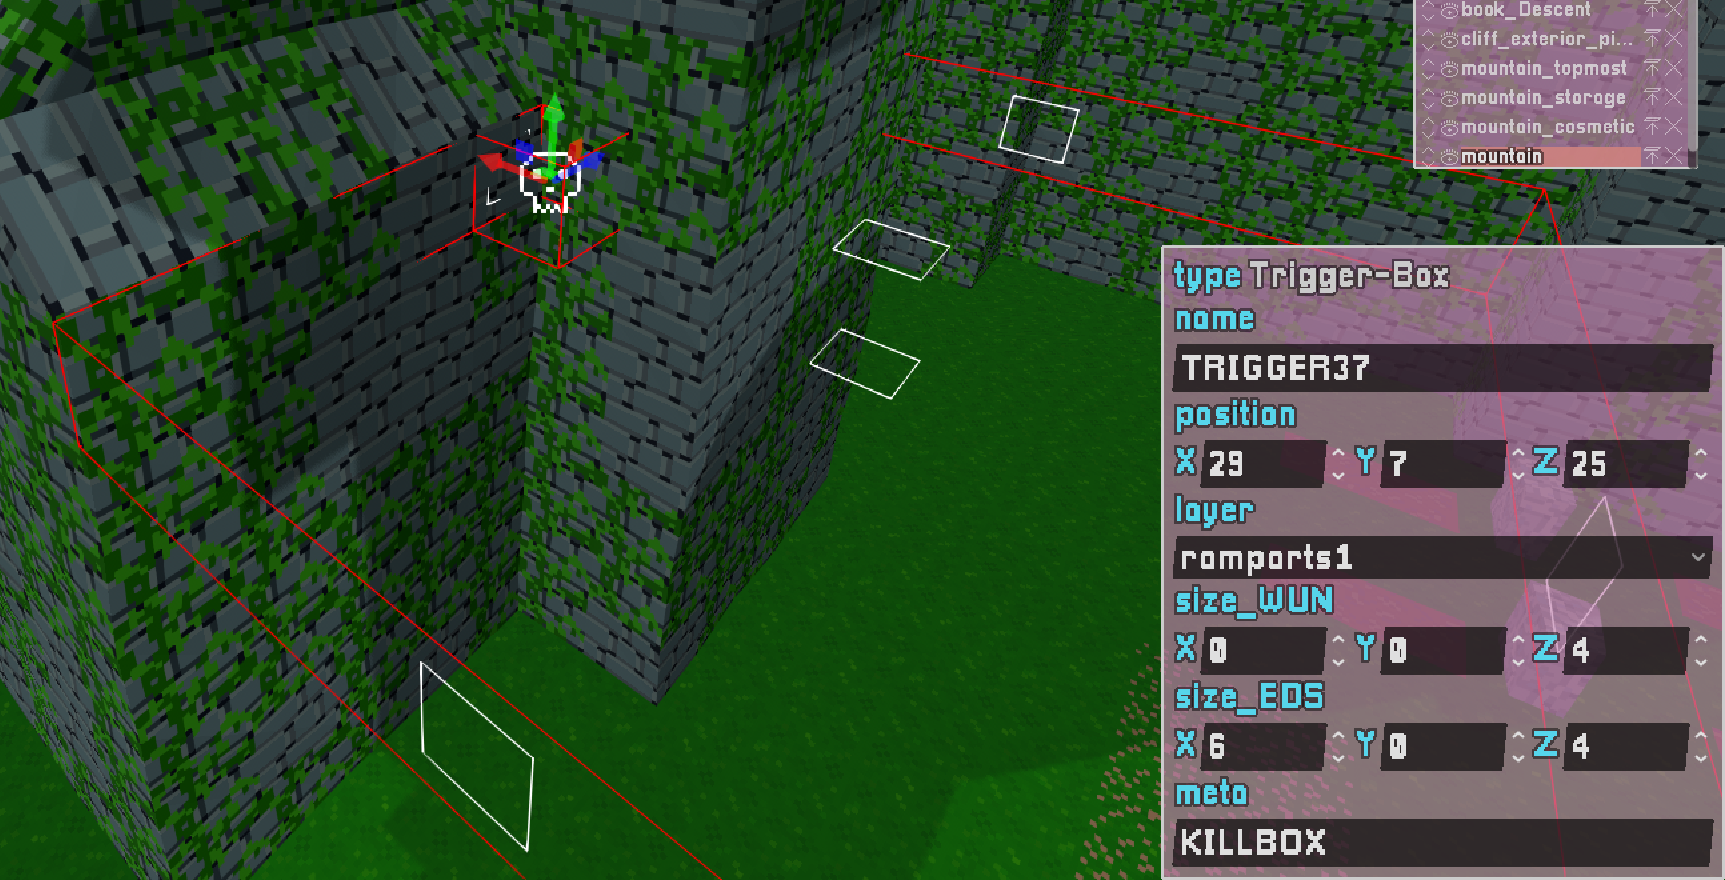
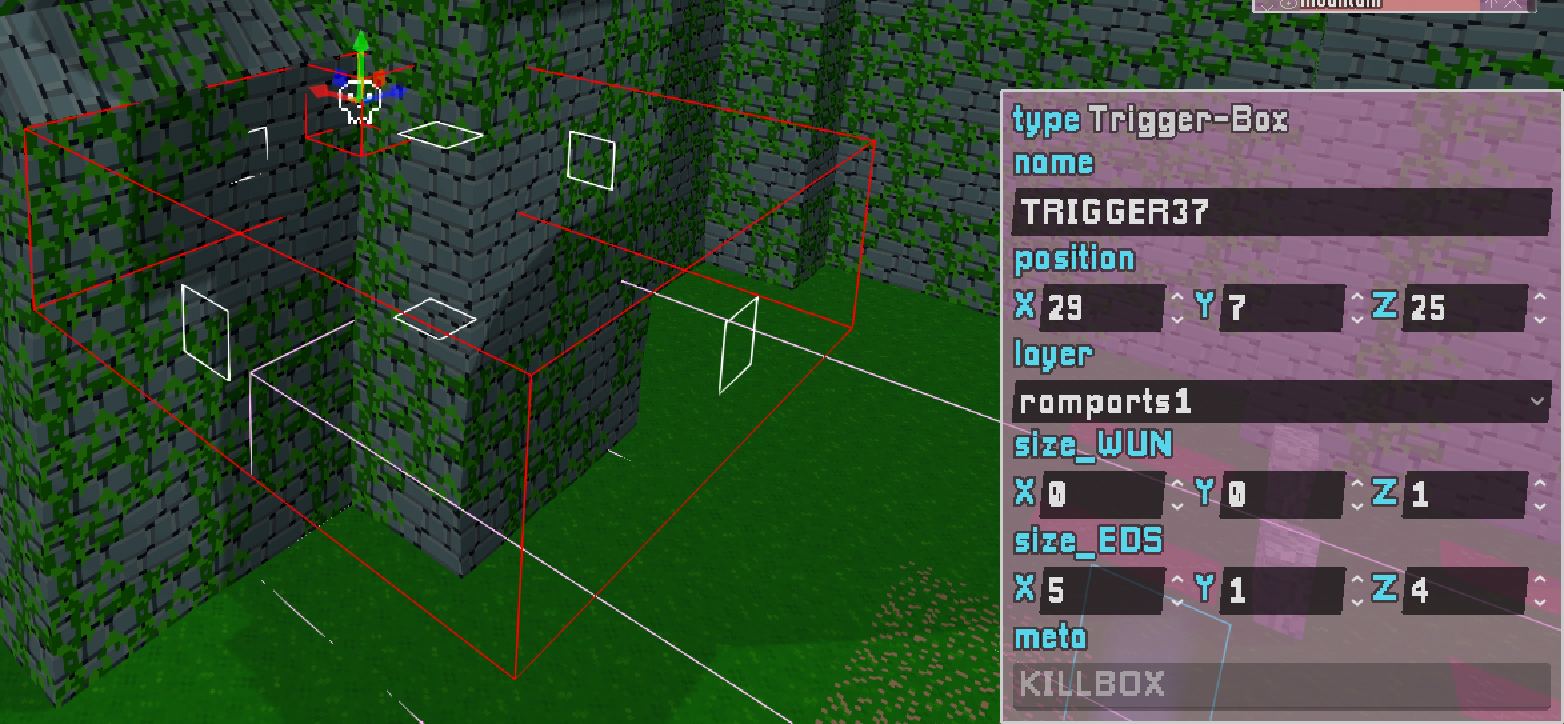
level->map

diff --git a/map-editor-tutorial.html b/map-editor-tutorial.html
@@ -383,7 +383,7 @@
 <p><img class="img-fluid rounded shadow-sm d-block my-3" height="300" alt="image" src="./map-editor-images/settings_menu.png" /></p>
 <ol start="2">
 <li>Enable <strong>Map-Editor</strong>.</li>
-<li>Load into a level (custom levels are easiest to work with - the main game level has hard-coded stuff).</li>
+<li>Load into a map (custom maps are easiest to work with - the main game map has hard-coded stuff).</li>
 <li>Press <strong>Tab</strong> to open the map editor.</li>
 </ol>
 <p><img class="img-fluid rounded shadow-sm d-block my-3" height="300" alt="image" src="./map-editor-images/map_editor_opened.png" /></p>
@@ -416,7 +416,7 @@
 </ul>
 <p><img class="img-fluid rounded shadow-sm d-block my-3" height="300" alt="image" src="./map-editor-images/file_dropdown.png" /></p>
 <ul>
-<li>The button to open the levels folder (shortcut : <strong>Ctrl+L</strong>).</li>
+<li>The button to open the maps folder (shortcut : <strong>Ctrl+L</strong>).</li>
 </ul>
 <hr class="my-5 opacity-0">
 <h2 class="mt-5 mb-3 pb-2 border-bottom" id="section-3-camera-and-movement-in-the-map-editor">3. Camera and Movement (in the Map Editor)</h2>
@@ -556,10 +556,10 @@
 </ul>
 <h4 class="mt-3 mb-2 opacity-75" id="section-511-img-srcmap-editor-imagesobject_1_bonfire_startpng--start-checkpoint">5.1.1 <img class="img-fluid rounded shadow-sm d-block my-3" src="./map-editor-images/object_1_Bonfire_Start.png" /> Start Checkpoint</h4>
 <ul>
-<li>Every level <em>must</em> include a <strong>Start Checkpoint</strong>.</li>
-<li>This is where the player spawns in custom levels; it looks just like a normal checkpoint.</li>
-<li>The <code>area_name</code> tag controls the text shown when the player spawns into the level.  The default value is <code>"CUSTOM_LEVEL_LETS_GO"</code>, a localisation tag that amounts to "Let's go!" in English, but you can change it to whatever message you like.</li>
-<li>(The <code>Nest.tscn</code> asset can also function as a start checkpoint, but its behaviour is heavily hard-coded - I don't recommend using it in your own levels unless you're modding the main game, and even then, test carefully and avoid modifying the geometry around the starting area.)</li>
+<li>Every map <em>must</em> include a <strong>Start Checkpoint</strong>.</li>
+<li>This is where the player spawns in custom maps; it looks just like a normal checkpoint.</li>
+<li>The <code>area_name</code> tag controls the text shown when the player starts a new game on your map.  The default value is <code>"CUSTOM_LEVEL_LETS_GO"</code>, a localisation tag that amounts to "Let's go!" in English, but you can change it to whatever message you like.</li>
+<li>(The <code>Nest.tscn</code> asset can also function as a start checkpoint, but its behaviour is heavily hard-coded - I don't recommend using it in your own maps unless you're modding the main game, and even then, test carefully and avoid modifying the geometry around the starting area.)</li>
 </ul>
 <p><img class="img-fluid rounded shadow-sm d-block my-3" height="300" alt="image" src="./map-editor-images/start_checkpoint.png" /></p>
 <h4 class="mt-3 mb-2 opacity-75" id="section-512-img-srcmap-editor-imagesobject_2_bonfirepng--normal-checkpoint">5.1.2 <img class="img-fluid rounded shadow-sm d-block my-3" src="./map-editor-images/object_2_Bonfire.png" /> Normal Checkpoint</h4>
@@ -570,7 +570,7 @@
 </ul>
 <h4 class="mt-3 mb-2 opacity-75" id="section-513-img-srcmap-editor-imagesobject_3_bonfire_endpng--end-checkpoint">5.1.3 <img class="img-fluid rounded shadow-sm d-block my-3" src="./map-editor-images/object_3_Bonfire_End.png" /> End Checkpoint</h4>
 <ul>
-<li>Custom levels don't have a dedicated final checkpoint (unless using the nest).  This behaves like a normal checkpoint.</li>
+<li>Custom maps don't have a dedicated final checkpoint (unless using the nest).  This behaves like a normal checkpoint.</li>
 <li>The default <code>area_name</code> tag value is <code>"CUSTOM_LEVEL_YOU_MADE_IT"</code>, which localises to "You made it!" in English - but you can put whatever you like in there.</li>
 </ul>
 <h4 class="mt-3 mb-2 opacity-75" id="section-514-img-srcmap-editor-imagesobject_4_torchpng--torch">5.1.4 <img class="img-fluid rounded shadow-sm d-block my-3" src="./map-editor-images/object_4_Torch.png" /> Torch</h4>
@@ -580,7 +580,7 @@
 <p><img class="img-fluid rounded shadow-sm d-block my-3" height="300" alt="image" src="./map-editor-images/star_shot.png" /></p>
 <p><img class="img-fluid rounded shadow-sm d-block my-3" height="300" alt="image" src="./map-editor-images/star_collect.png" /></p>
 <ul>
-<li>Makes a satisfying sound when collected, and displays a running count of stars collected vs. the level total.</li>
+<li>Makes a satisfying sound when collected, and displays a running count of stars collected vs. the total number of starts on the map.</li>
 <li>Entirely optional and inconsequential. (I added these thinking I might use them in the main game, but decided against it in the end.)</li>
 </ul>
 <h4 class="mt-3 mb-2 opacity-75" id="section-516-img-srcmap-editor-imagesobject_6_chairpng--chair">5.1.6 <img class="img-fluid rounded shadow-sm d-block my-3" src="./map-editor-images/object_6_Chair.png" /> Chair</h4>
@@ -590,7 +590,7 @@
 <p><img class="img-fluid rounded shadow-sm d-block my-3" height="300" alt="image" src="./map-editor-images/object_table_example.png" /></p>
 <p>Purely decorative geometry.  Not used in the main game.</p>
 <h4 class="mt-3 mb-2 opacity-75" id="section-518-other-objects">5.1.8 Other Objects</h4>
-<p>There are other objects accessible via the <code>asset_name</code> dropdown in the properties panel, but they have unusual or hard-coded behaviour tied to the main game, so I don't recommend using them in custom levels. (The <code>Nest.tscn</code> object, for instance, has a great deal of specific hard-coded logic and spawns invisible collision geometry during cutscenes.) It's fine to leave them in place if you're modding the main game map, just be careful to not modify these objects or their surrounding geometry.</p>
+<p>There are other objects accessible via the <code>asset_name</code> dropdown in the properties panel, but they have unusual or hard-coded behaviour tied to the main game, so I don't recommend using them in custom maps. (The <code>Nest.tscn</code> object, for instance, has a great deal of specific hard-coded logic and spawns invisible collision geometry during cutscenes.) It's fine to leave them in place if you're modding the main game map, just be careful to not modify these objects or their surrounding geometry.</p>
 <h3 class="mt-4 mb-3" id="section-52-img-srcmap-editor-imagesentity_tool_triggerpng--trigger-box-tool">5.2 <img class="img-fluid rounded shadow-sm d-block my-3" src="./map-editor-images/entity_tool_trigger.png" /> Trigger-Box Tool</h3>
 <ul>
 <li>Trigger boxes are big invisible areas that do something when the player enters them.</li>
@@ -611,20 +611,20 @@
 <ul>
 <li>Starts playing a music track when the player enters.</li>
 <li>Usually you want to have a music trigger at each checkpoint so that the correct music plays when a player resumes a saved game.</li>
-<li>Choose the track from the dropdown in the properties panel.</li>
+<li>Choose the track from the dropdown in the properties panel.
+<img class="img-fluid rounded shadow-sm d-block my-3" height="300" alt="image" src="./map-editor-images/music_property_panel.png" /></li>
 <li>Any time in the map editor you click on a music trigger you'll hear a preview of its music.</li>
-<li>You can't add your own music files, but in addition to the main OST there are several hours of bonus tracks included for use in custom levels.</li>
-<li>The OST is <a href="https://store.steampowered.com/app/4217410/Oeuvre_Oeuf_Soundtrack/">here</a> if you want to listen to it casually.</li>
+<li>You can't add your own music files, but in addition to the main OST there are several hours of bonus tracks included for use in custom maps.</li>
+<li>The OST is <a href="https://store.steampowered.com/app/4217410/Oeuvre_Oeuf_Soundtrack/">here</a> if you want to listen to it outside the game.</li>
 </ul>
-<p><img class="img-fluid rounded shadow-sm d-block my-3" height="300" alt="image" src="./map-editor-images/music_property_panel.png" /></p>
 <h4 class="mt-3 mb-2 opacity-75" id="section-522-img-srcmap-editor-imagestrigger_2_arealabelpng--arealabel">5.2.2 <img class="img-fluid rounded shadow-sm d-block my-3" src="./map-editor-images/trigger_2_arealabel.png" /> arealabel</h4>
 <p><img class="img-fluid rounded shadow-sm d-block my-3" height="300" alt="image" src="./map-editor-images/arealabel_props.png" /></p>
-<p>Area Label trigger boxes display a message on screen when the player enters, independently of checkpoints.  If the <code>area_name</code> matches a built-in location name (case-sensitive), the game localises it - e.g. entering <code>FOREST</code> displays "Forest of Branching Paths" in English.  Otherwise it just displays your text verbatim, so entering <code>Hello, world!</code> displays "Hello, World!".</p>
+<p>Arealabel trigger boxes display a message on screen when the player enters, independently of checkpoints.  If the <code>area_name</code> matches a built-in location name (case-sensitive), the game localises it - e.g. entering <code>FOREST</code> displays "Forest of Branching Paths" in English.  Otherwise it just displays your text verbatim, so entering <code>Hello, world!</code> displays "Hello, World!".</p>
 <p><img class="img-fluid rounded shadow-sm d-block my-3" height="300" alt="image" src="./map-editor-images/arealabel2.png" /></p>
 <h4 class="mt-3 mb-2 opacity-75" id="section-523-img-srcmap-editor-imagestrigger_3_killboxpng--killbox">5.2.3 <img class="img-fluid rounded shadow-sm d-block my-3" src="./map-editor-images/trigger_3_killbox.png" /> KILLBOX</h4>
 <p><img class="img-fluid rounded shadow-sm d-block my-3" height="300" alt="image" src="./map-editor-images/killbox.png" /></p>
 <ul>
-<li>If you enter a Killbox, you are internally marked as <em>doomed</em>, and will oof the next time you touch horizontal-ish level geometry (ramps included).</li>
+<li>If you enter a killbox, you are internally marked as <em>doomed</em>, and will oof the next time you touch horizontal-ish map geometry (ramps included).</li>
 <li>Drawn in red in the map view for easy identification.</li>
 <li>While <em>doomed</em>, you cannot trigger checkpoints until you restart.</li>
 </ul>
@@ -632,7 +632,7 @@
 <p>While inside this trigger box, the player emits light.  Handy for subtly brightening dark areas without placing lots of torch props (which can be expensive to render and visually distracting).</p>
 <p><img class="img-fluid rounded shadow-sm d-block my-3" height="300" alt="image" src="./map-editor-images/torchbox.png" /></p>
 <h4 class="mt-3 mb-2 opacity-75" id="section-525-img-srcmap-editor-imagestrigger_5_advancedpng--generic-trigger-boxes">5.2.5 <img class="img-fluid rounded shadow-sm d-block my-3" src="./map-editor-images/trigger_5_advanced.png" /> Generic Trigger-Boxes</h4>
-<p>There are a few other really finicky trigger-box types - what they do is specified by their meta tags.  I don't think they're appropriate for general use, so I won't document them.  If you're modding the main game map it's fine to leave them in place - but pls don't use them in new custom levels, as they may behave unexpectedly.</p>
+<p>There are a few other really finicky trigger-box types - what they do is specified by their meta tags.  I don't think they're appropriate for general use, so I won't document them.  If you're modding the main game map it's fine to leave them in place - but pls don't use them in new custom maps, as they may behave unexpectedly.</p>
 <hr class="my-5 opacity-0">
 <h2 class="mt-5 mb-3 pb-2 border-bottom" id="section-6-layer-mode">6. Layer Mode</h2>
 <p>Cycle to Layer Mode with <strong>Backtick</strong> (<strong>`</strong>).</p>
@@ -687,13 +687,13 @@
 <p>Creates a new empty layer.</p>
 <hr class="my-5 opacity-0">
 <h2 class="mt-5 mb-3 pb-2 border-bottom" id="section-8-img-srcmap-editor-imagesupload_iconpng--upload-to-steam-workshop">8. <img class="img-fluid rounded shadow-sm d-block my-3" src="./map-editor-images/upload_icon.png" /> Upload to Steam Workshop</h2>
-<p>Uploading to Steam Workshop is a pretty easy affair - when you're happy with your level, just click the steam button in the toolbar :</p>
+<p>Uploading to Steam Workshop is a pretty easy affair - when you're happy with your map, just click the steam button in the toolbar :</p>
 <p><img class="img-fluid rounded shadow-sm d-block my-3" height="300" src="./map-editor-images/workshop_upload.png" /></p>
-<p>After a moment, you'll see a confirmation message and the Steam Workshop page for your level will open automatically.</p>
+<p>After a moment, you'll see a confirmation message and the Steam Workshop page for your map will open automatically.</p>
 <p><img class="img-fluid rounded shadow-sm d-block my-3" height="300" src="./map-editor-images/workshop_success.png" /></p>
 <p>The thumbnail is generated from a screenshot of the current view when you save.</p>
 <p><img class="img-fluid rounded shadow-sm d-block my-3" height="300" src="./map-editor-images/workshop_page_appearance.png" /></p>
-<p>If you'd like to customise the listing further, you can do so from that page.  The mod is associated with the file name of the map - if you resave the file it will update your level on the Steam Workshop.</p>
+<p>If you'd like to customise the listing further, you can do so from that page.  The mod is associated with the file name of the map - if you resave the file it will update your map on the Steam Workshop.</p>
 <hr class="my-5 opacity-0">
 <h2 class="mt-5 mb-3 pb-2 border-bottom" id="section-9-feedback-and-bug-reports">9. Feedback and Bug Reports</h2>
 <p>Does this make sense? I hope so! Feedback and bug reports are always welcome - e-mail me at <a href="mailto:analytic@gmail.com">analytic@gmail.com</a>.</p></main>

diff --git a/map-editor-tutorial.md b/map-editor-tutorial.md
@@ -40,7 +40,7 @@ If you have a map file, you can add it like this (doesn't work on Steam Deck!) :
 <img height="300" alt="image" src="./map-editor-images/settings_menu.png" />
 
 2. Enable **Map-Editor**.
-3. Load into a level (custom levels are easiest to work with - the main game level has hard-coded stuff).
+3. Load into a map (custom maps are easiest to work with - the main game map has hard-coded stuff).
 4. Press **Tab** to open the map editor.
 
 <img height="300" alt="image" src="./map-editor-images/map_editor_opened.png" />
@@ -78,7 +78,7 @@ To the top left of the screen you can see :
 
 <img height="300" alt="image" src="./map-editor-images/file_dropdown.png" />
 
-- The button to open the levels folder (shortcut : **Ctrl+L**).
+- The button to open the maps folder (shortcut : **Ctrl+L**).
 
 ---
 
@@ -249,10 +249,10 @@ In Entity Mode there are two tools - the **Object Tool** and the **Trigger-Box T
 
 #### 5.1.1 <img src="./map-editor-images/object_1_Bonfire_Start.png" /> Start Checkpoint
 
-- Every level *must* include a **Start Checkpoint**.
-- This is where the player spawns in custom levels; it looks just like a normal checkpoint.
-- The `area_name` tag controls the text shown when the player spawns into the level.  The default value is `"CUSTOM_LEVEL_LETS_GO"`, a localisation tag that amounts to "Let's go!" in English, but you can change it to whatever message you like.
-- (The `Nest.tscn` asset can also function as a start checkpoint, but its behaviour is heavily hard-coded - I don't recommend using it in your own levels unless you're modding the main game, and even then, test carefully and avoid modifying the geometry around the starting area.)
+- Every map *must* include a **Start Checkpoint**.
+- This is where the player spawns in custom maps; it looks just like a normal checkpoint.
+- The `area_name` tag controls the text shown when the player starts a new game on your map.  The default value is `"CUSTOM_LEVEL_LETS_GO"`, a localisation tag that amounts to "Let's go!" in English, but you can change it to whatever message you like.
+- (The `Nest.tscn` asset can also function as a start checkpoint, but its behaviour is heavily hard-coded - I don't recommend using it in your own maps unless you're modding the main game, and even then, test carefully and avoid modifying the geometry around the starting area.)
 
 <img height="300" alt="image" src="./map-editor-images/start_checkpoint.png" />
 
@@ -264,7 +264,7 @@ In Entity Mode there are two tools - the **Object Tool** and the **Trigger-Box T
 
 #### 5.1.3 <img src="./map-editor-images/object_3_Bonfire_End.png" /> End Checkpoint
 
-- Custom levels don't have a dedicated final checkpoint (unless using the nest).  This behaves like a normal checkpoint.
+- Custom maps don't have a dedicated final checkpoint (unless using the nest).  This behaves like a normal checkpoint.
 - The default `area_name` tag value is `"CUSTOM_LEVEL_YOU_MADE_IT"`, which localises to "You made it!" in English - but you can put whatever you like in there.
 
 #### 5.1.4 <img src="./map-editor-images/object_4_Torch.png" /> Torch
@@ -279,7 +279,7 @@ Provides a point of light.  Handy when things are getting a bit dark - but don't
 
 <img height="300" alt="image" src="./map-editor-images/star_collect.png" />
 
-- Makes a satisfying sound when collected, and displays a running count of stars collected vs. the level total.
+- Makes a satisfying sound when collected, and displays a running count of stars collected vs. the total number of starts on the map.
 - Entirely optional and inconsequential. (I added these thinking I might use them in the main game, but decided against it in the end.)
 
 #### 5.1.6 <img src="./map-editor-images/object_6_Chair.png" /> Chair
@@ -296,7 +296,7 @@ Purely decorative geometry.  Not used in the main game.
 
 #### 5.1.8 Other Objects
 
-There are other objects accessible via the `asset_name` dropdown in the properties panel, but they have unusual or hard-coded behaviour tied to the main game, so I don't recommend using them in custom levels. (The `Nest.tscn` object, for instance, has a great deal of specific hard-coded logic and spawns invisible collision geometry during cutscenes.) It's fine to leave them in place if you're modding the main game map, just be careful to not modify these objects or their surrounding geometry.
+There are other objects accessible via the `asset_name` dropdown in the properties panel, but they have unusual or hard-coded behaviour tied to the main game, so I don't recommend using them in custom maps. (The `Nest.tscn` object, for instance, has a great deal of specific hard-coded logic and spawns invisible collision geometry during cutscenes.) It's fine to leave them in place if you're modding the main game map, just be careful to not modify these objects or their surrounding geometry.
 
 ### 5.2 <img src="./map-editor-images/entity_tool_trigger.png" /> Trigger-Box Tool
 
@@ -319,17 +319,17 @@ There are other objects accessible via the `asset_name` dropdown in the properti
 - Starts playing a music track when the player enters.
 - Usually you want to have a music trigger at each checkpoint so that the correct music plays when a player resumes a saved game.
 - Choose the track from the dropdown in the properties panel.
-- Any time in the map editor you click on a music trigger you'll hear a preview of its music.
-- You can't add your own music files, but in addition to the main OST there are several hours of bonus tracks included for use in custom levels.
-- The OST is [here](https://store.steampowered.com/app/4217410/Oeuvre_Oeuf_Soundtrack/) if you want to listen to it casually.
-
 <img height="300" alt="image" src="./map-editor-images/music_property_panel.png" />
+- Any time in the map editor you click on a music trigger you'll hear a preview of its music.
+- You can't add your own music files, but in addition to the main OST there are several hours of bonus tracks included for use in custom maps.
+- The OST is [here](https://store.steampowered.com/app/4217410/Oeuvre_Oeuf_Soundtrack/) if you want to listen to it outside the game.
+
 
 #### 5.2.2 <img src="./map-editor-images/trigger_2_arealabel.png" /> arealabel
 
 <img height="300" alt="image" src="./map-editor-images/arealabel_props.png" />
 
-Area Label trigger boxes display a message on screen when the player enters, independently of checkpoints.  If the `area_name` matches a built-in location name (case-sensitive), the game localises it - e.g. entering `FOREST` displays "Forest of Branching Paths" in English.  Otherwise it just displays your text verbatim, so entering `Hello, world!` displays "Hello, World!".
+Arealabel trigger boxes display a message on screen when the player enters, independently of checkpoints.  If the `area_name` matches a built-in location name (case-sensitive), the game localises it - e.g. entering `FOREST` displays "Forest of Branching Paths" in English.  Otherwise it just displays your text verbatim, so entering `Hello, world!` displays "Hello, World!".
 
 <img height="300" alt="image" src="./map-editor-images/arealabel2.png" />
 
@@ -337,7 +337,7 @@ Area Label trigger boxes display a message on screen when the player enters, ind
 
 <img height="300" alt="image" src="./map-editor-images/killbox.png" />
 
-- If you enter a Killbox, you are internally marked as *doomed*, and will oof the next time you touch horizontal-ish level geometry (ramps included).
+- If you enter a killbox, you are internally marked as *doomed*, and will oof the next time you touch horizontal-ish map geometry (ramps included).
 - Drawn in red in the map view for easy identification.
 - While *doomed*, you cannot trigger checkpoints until you restart.
 
@@ -349,7 +349,7 @@ While inside this trigger box, the player emits light.  Handy for subtly brighte
 
 #### 5.2.5 <img src="./map-editor-images/trigger_5_advanced.png" /> Generic Trigger-Boxes
 
-There are a few other really finicky trigger-box types - what they do is specified by their meta tags.  I don't think they're appropriate for general use, so I won't document them.  If you're modding the main game map it's fine to leave them in place - but pls don't use them in new custom levels, as they may behave unexpectedly.
+There are a few other really finicky trigger-box types - what they do is specified by their meta tags.  I don't think they're appropriate for general use, so I won't document them.  If you're modding the main game map it's fine to leave them in place - but pls don't use them in new custom maps, as they may behave unexpectedly.
 
 ---
 
@@ -431,11 +431,11 @@ Creates a new empty layer.
 
 ## 8. <img src="./map-editor-images/upload_icon.png" /> Upload to Steam Workshop
 
-Uploading to Steam Workshop is a pretty easy affair - when you're happy with your level, just click the steam button in the toolbar :
+Uploading to Steam Workshop is a pretty easy affair - when you're happy with your map, just click the steam button in the toolbar :
 
 <img height="300" src="./map-editor-images/workshop_upload.png" />
 
-After a moment, you'll see a confirmation message and the Steam Workshop page for your level will open automatically.
+After a moment, you'll see a confirmation message and the Steam Workshop page for your map will open automatically.
 
 <img height="300" src="./map-editor-images/workshop_success.png" />
 
@@ -443,7 +443,7 @@ The thumbnail is generated from a screenshot of the current view when you save.
 
 <img height="300" src="./map-editor-images/workshop_page_appearance.png" />
 
-If you'd like to customise the listing further, you can do so from that page.  The mod is associated with the file name of the map - if you resave the file it will update your level on the Steam Workshop.
+If you'd like to customise the listing further, you can do so from that page.  The mod is associated with the file name of the map - if you resave the file it will update your map on the Steam Workshop.
 
 ---
 
